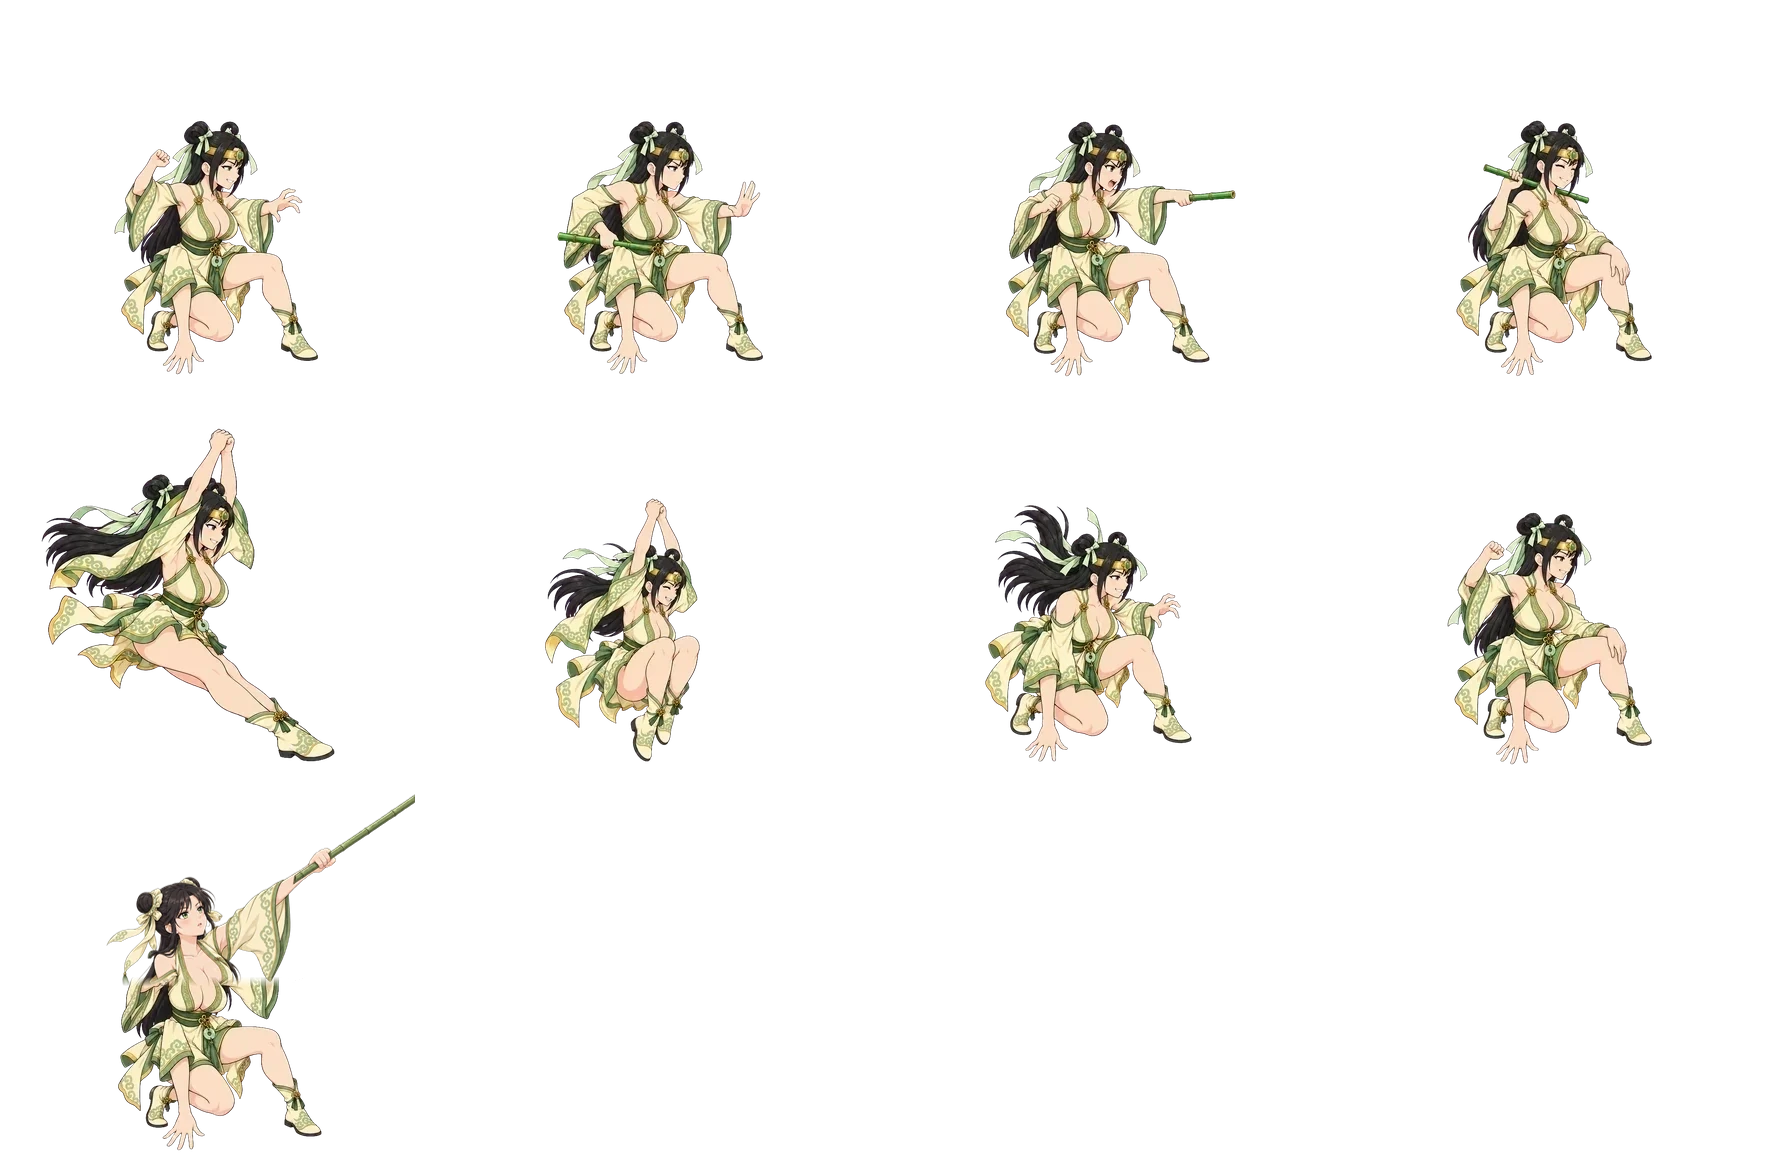
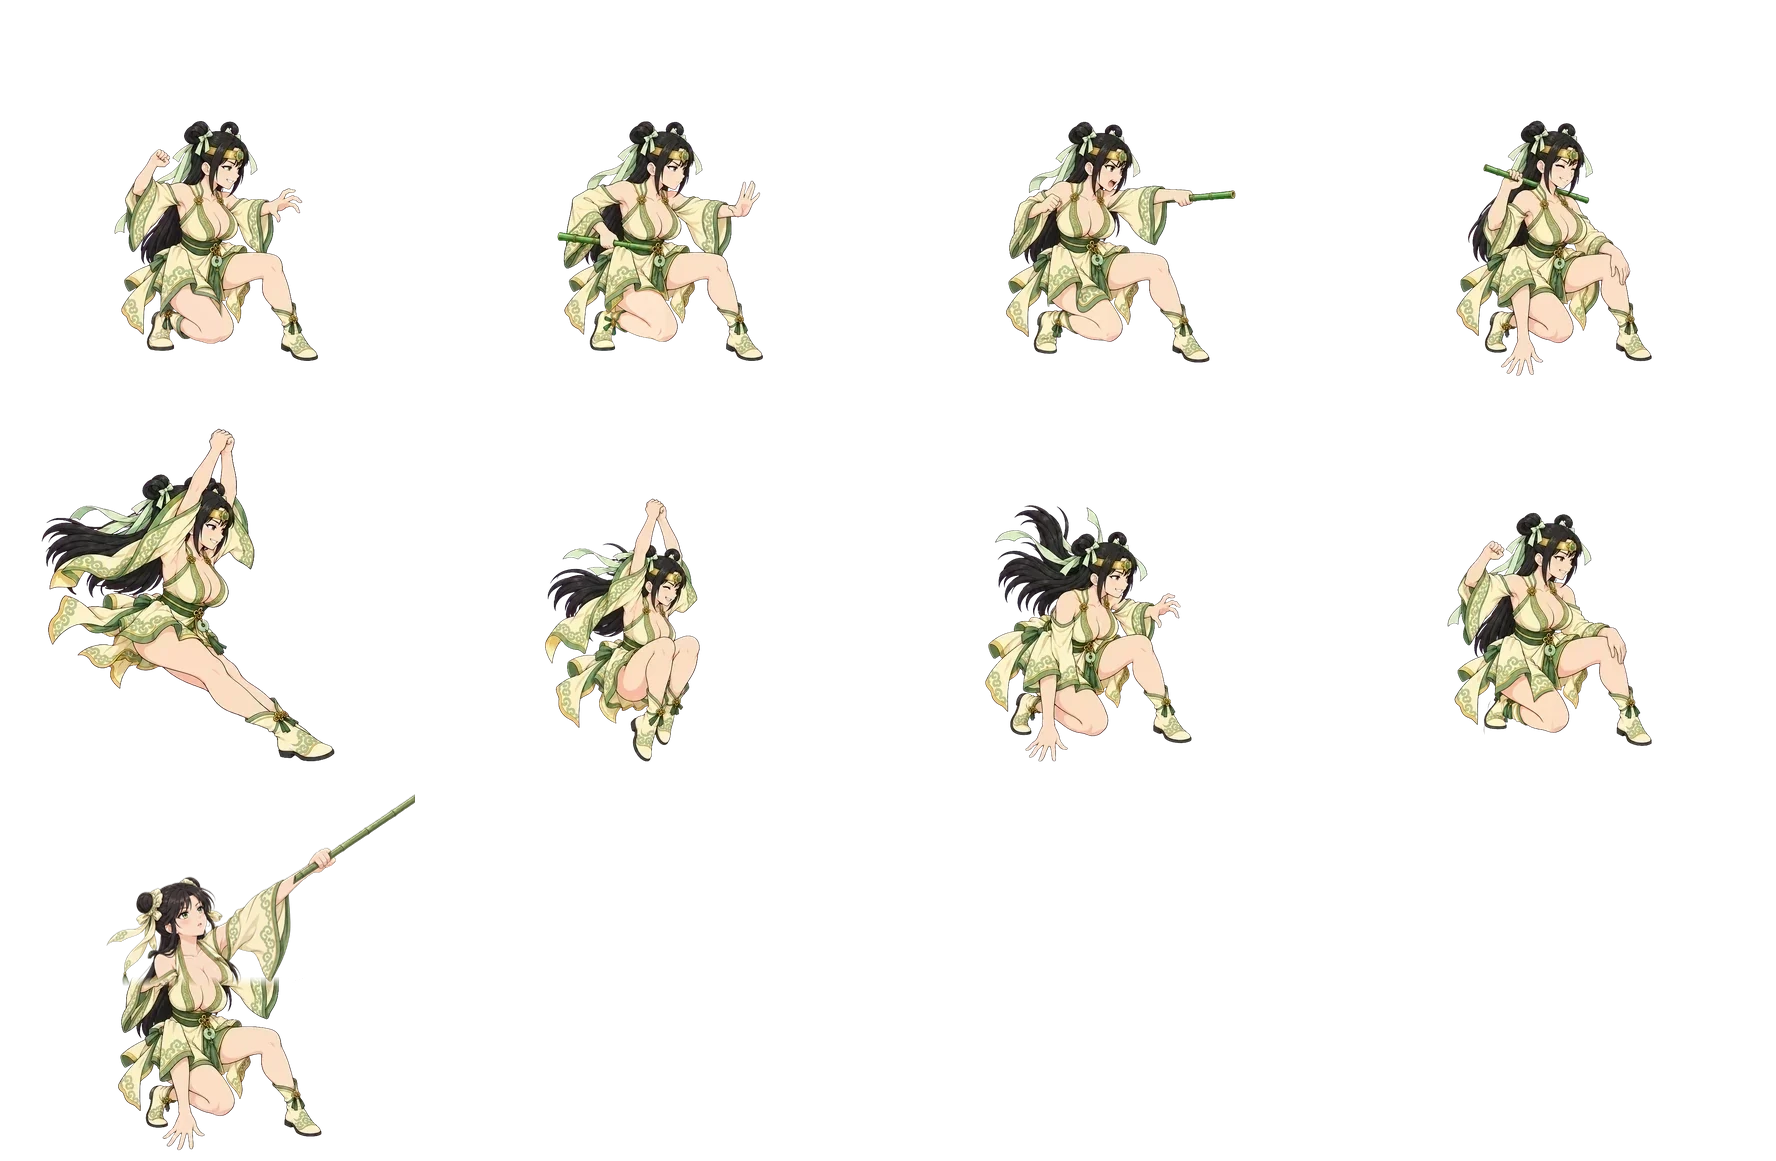
fix: G30 放光帧 release 补进 sheet.names（漏写→放光时人不画、光像从手机射出）；G29 idle/idle2/wind/throw 去掉多出的撑地手（三只手）；combo_scan 遇到 seq/enter/idle 用到但 names 里没有的帧直接报错
G30：127ae81 把 release 画进图集、seq 用了它，names 没加 → indexOf -1，放光 0.5 秒人消失。combo_scan 原先静默过滤掉没名字的帧，所以没报；现在报错（用旧数据验证能拦住）。全员复查只有 G30 一处。
G29：底图是单手撑地，这四帧两只手已经各有去处，撑地前臂局部重绘成膝盖和衣摆（nohand/ 蒙版 + 生成图 + reg.py），land / release 保留撑地手。
combo_scan 两边 0/0/0、跨边 0；测试端口与正式页 sweep 0 errors。

diff --git a/chashouji/web/trio_bestie.js b/chashouji/web/trio_bestie.js
@@ -179,7 +179,7 @@ const TRIO_BESTIE = {
     },
     G30: {      // 葫芦山蛇精式妖女：像蛇一样左右扭着从左下角滑进来、斜倚坐起，举如意放一道绿光吸住他
       face: +1,
-      sheet: { src: 'assets/trio/G30_snake.webp', cell: [577, 385], cols: 4, names: ['idle', 'wind', 'throw', 'follow', 'slither1', 'slither2', 'wind2', 'idle2'] },
+      sheet: { src: 'assets/trio/G30_snake.webp', cell: [577, 385], cols: 4, names: ['idle', 'wind', 'throw', 'follow', 'slither1', 'slither2', 'wind2', 'idle2', 'release'] },
       anchor: [268.2, 386.8], at: [200, 1332, 1], pivot: [268, 386],
       leanK: 0,   // 斜倚在地上：整体前后倾会把贴地的蛇尾裙摆翘起来
       depth: 1.3, recipe: 'star',
@@ -255,12 +255,14 @@ const TRIO_BESTIE = {
       face: +1,
       sheet: { src: 'assets/trio/G29_huangrong.webp', cell: [444, 387], cols: 4, names: ['idle', 'wind', 'throw', 'follow', 'vault', 'swing', 'land', 'idle2', 'release'] },
       anchor: [228.4, 371.7], at: [180, 1328, 0.98], pivot: [228, 371],
-      leanK: 0,   // 蹲着、一只手撑地：整体前后倾会把撑地的手和靴子带起来
+      leanK: 0,   // 蹲着：整体前后倾会把撑地的手和靴子带起来
       depth: 1.3, recipe: 'thud',
       /* 撑棒跃进：双手握棒顶腾空（vault）→ 收腿荡过去（swing）→ 落地蹲下单手撑地（land）→ 待机 */
       enter: { kind: 'leap', h: 120, air: 0.45, sq: 0.1, seq: [['vault', 0.25], ['swing', 0.2], ['land', 0.14, 'land'], ['idle', 9]] },
       exit: { frame: 'vault' },
       idle: { frame: 'idle', breathe: [0.018, 0.75, 0] },
+      /* idle / idle2 / wind / throw 原图两只手各有去处（举拳握棒 + 前伸 / 扶膝 / 握短棒）却还画着一只撑地的手 = 三只手（2026-10-02 用户指出）：
+         撑地那条前臂局部重绘成膝盖和衣摆（bestie/G29_huangrong/nohand/：蒙版、生成图、reg.py 配回原格），land / release 只有一只手在别处，撑地手保留 */
       /* 打狗棒：定妆拆好的挂件层（bestie/ref/G29_staff.png → tools/part.py h 281），挂点 = 握棒处（棒长 80% 那一点）。
          待机 / 落地：握在举起的左拳里、斜靠在背后；腾空两帧：双手握棒顶、棒子往下（转 π，荡的那帧更竖）；
          wind / throw / follow 不画（这几帧手里画着一截短竹棒，捅出去的就是它） */

diff --git a/chashouji/v14/trio/bestie/G29_huangrong/nohand/reg.py b/chashouji/v14/trio/bestie/G29_huangrong/nohand/reg.py
@@ -1,0 +1,36 @@
+# 生成图配回底图（按保留区灰度模板找缩放 + 平移），只取蒙版区（6px 渐变）贴回原 cell：python3 reg.py <帧> <gen.png> <out.png>
+import sys, numpy as np
+sys.path.insert(0, '/workspace/art/chashouji/v14/trio/tools')
+from frames import gray, find, resize
+from PIL import Image
+from scipy import ndimage
+f, gp, out = sys.argv[1:4]
+S, OX, OY = 2, 68, 125
+cell = Image.open(f'/tmp/g29/{f}_cell.png').convert('RGBA'); cw, ch = cell.size
+base = Image.open(f'/tmp/g29/{f}_base.png').convert('RGB')
+keep = np.array(Image.open(f'/tmp/g29/{f}_mask.png'))[..., 3] > 128
+key = lambda X: np.clip(((X[..., 0] + X[..., 2]) / 2 - X[..., 1] - 40) / 110, 0, 1)   # 品红幕
+lm = ndimage.binary_erosion(keep, iterations=16) & (key(np.array(base).astype(float)) < 0.5)
+ys, xs = np.nonzero(lm); box = (xs.min(), ys.min(), xs.max(), ys.max())
+tpl = gray(base.crop(box)); g4 = Image.open(gp).convert('RGBA')
+g = Image.new('RGBA', g4.size, (255, 0, 255, 255)); g.alpha_composite(g4); g = g.convert('RGB')   # 生成图常是透明底：铺回品红幕再按幕布键
+q = 0.25; tq = gray(resize(base.crop(box), q)); best = None
+for s in np.arange(0.70, 0.95, 0.01):          # 粗：1/4 分辨率
+    r = find(gray(resize(g, s * q)), tq)
+    if r and (best is None or r[2] > best[0]): best = (r[2], s, r)
+s0 = best[1]; best = None
+for s in np.arange(s0 - 0.012, s0 + 0.013, 0.003):   # 细：原分辨率
+    r = find(gray(resize(g, s)), tpl)
+    if r and (best is None or r[2] > best[0]): best = (r[2], s, r)
+sc, s, r = best; gx, gy = box[0] - r[1], box[1] - r[0]
+print(f'{f}: scale {s:.3f} score {sc:.3f} offset {gx},{gy}')
+C = Image.new('RGB', (1024, 1024), (255, 0, 255)); C.paste(resize(g, s), (int(gx), int(gy)))
+G = np.array(C).astype(np.float32); a = 1 - key(G)
+rgb = np.where(a[..., None] > 0.02, (G - (1 - a[..., None]) * np.array([255, 0, 255])) / np.maximum(a[..., None], 0.02), 0).clip(0, 255)
+new = Image.fromarray(np.dstack([rgb, a * 255]).astype(np.uint8)).crop((OX, OY, OX + cw * S, OY + ch * S)).resize((cw, ch), Image.LANCZOS)
+w = np.clip(ndimage.distance_transform_edt(~keep) / 6, 0, 1)[OY:OY + ch * S:S, OX:OX + cw * S:S][..., None]
+N, O = np.array(new).astype(np.float32), np.array(cell).astype(np.float32)
+pm = lambda X: np.dstack([X[..., :3] * X[..., 3:] / 255, X[..., 3:]])
+o = pm(N) * w + pm(O) * (1 - w)
+res = np.dstack([o[..., :3] * 255 / np.maximum(o[..., 3:], 1e-3), o[..., 3:]]).clip(0, 255).astype(np.uint8)
+Image.fromarray(res).save(out)

diff --git a/chashouji/v14/trio/tools/combo_scan.py b/chashouji/v14/trio/tools/combo_scan.py
@@ -339,6 +339,9 @@ def sheet_person(c, at, foot, side):
             want += [E['seq'][-1][0]]
         pump = (sw or {}).get('pump')
         if pump: want += [pump['fwd'], pump['back']]
+        # 出手 / 进场 / 待机引用的帧必须在 sheet.names 里：引擎按名字找格，找不到 indexOf = -1，这一段整个人不画（G30 release 漏写，放光 0.5 秒人消失、光像从半空射出）
+        miss = [f for f in dict.fromkeys(want) if f not in sh['names'] and f != 'aim']
+        if miss: raise SystemExit(f'{name}: seq / enter / idle 用到的帧 {miss} 不在 sheet.names {sh["names"]} 里')
         want = [f for f in dict.fromkeys(want) if f in sh['names']]
         hr = head_out(name); hb, refc = (hr[0], cell(hr[1])) if hr else (None, None)   # 头框量在参考帧上（不一定是 idle：G4 是 wind）
         cells = [(f, cell(f)) for f in want]
